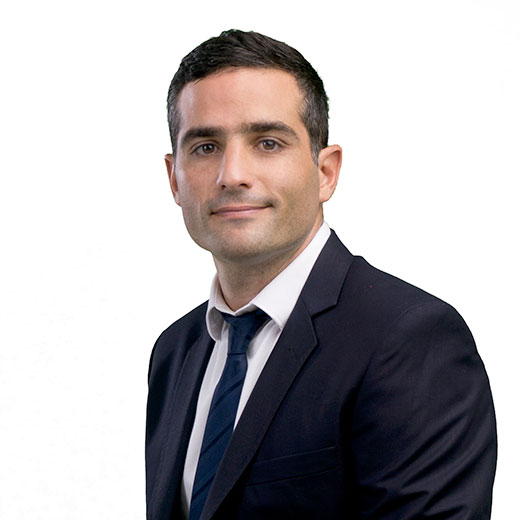
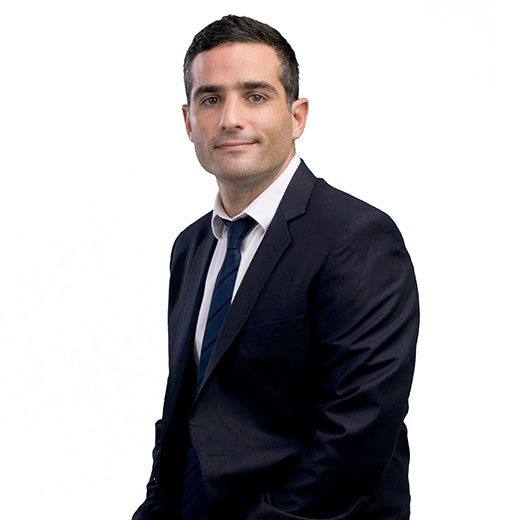
Cambios realizados.

diff --git a/index.html b/index.html
@@ -43,7 +43,7 @@
 			<li><a href="#anchor-consulta" class="smooth waves-button waves-effect">1ra Consulta</a></li><li>
 				<a href="#anchor-estetica" class="smooth-offset waves-button waves-effect">Estética</a></li><li>
 				<a href="#anchor-reparadora" class="smooth-offset waves-button waves-effect">Reparadora</a></li><li>
-				<a href="#anchor-testimonios" class="smooth-offset waves-button waves-effect">Testimonios</a></li><li>
+				<!--<a href="#anchor-testimonios" class="smooth-offset waves-button waves-effect">Testimonios</a></li><li>-->
 				<a href="#anchor-chouhy" class="smooth-offset waves-button waves-effect">Dr. Chouhy</a></li><li>
 				<a href="#anchor-contacto" class="smooth-offset waves-button waves-effect">Contacto</a></li>
 		</ul>
@@ -53,7 +53,12 @@
 		<div class="intro-item item-1">
 			<div class="intro-item-content">
 				<div class="container">
-					<p class="intro-text">Porque no existen dos personas idénticas... <strong>realizá una consulta 100% personalizada para vos.</strong></p>
+					<p class="intro-text">
+						No existen dos personas iguales...<br>
+						Sus tejidos no son iguales...<br>
+						El resultado no es el mismo...<br>
+						<strong>¿Por qué es importante hacer una consulta?</strong>
+					</p>
 					<a href="#anchor-consulta" class="btn btn-main waves-effect waves-button waves-float smooth">Primera Consulta</a>
 				</div>
 			</div>
@@ -73,8 +78,9 @@
 				<p>En la actualidad se puede obtener facilmente información con respecto a procedimientos quirurgicos o inclusive acceder a fotografias que reflejan resultados. Pero las imágenes son engañosas incluso ante cirujanos muy experimentados. Cada paciente disfruta mirando las imagenes antes y después "yo quiero saber lo que voy a parecer", eso es parte de la naturaleza humana. No tengo ningún problema con los pacientes que buscan de las imágenes lo que desean, pero nunca voy a tomar decisiones en base a imagenes. Cuando el paciente y el cirujano ven una imagen, cada uno forma una opinión diferente y por lo tanto subjetiva. Para ofrecer el más alto nivel en resultados con el minimo de riesgos debemos utilizar métodos científicos basados en mediciones objetivas precisas, pero lo mas importante... <strong>individuales</strong> para cada paciente.</p>
 			</div>
 			<div class="slider consulta-slider">
-				<div class="consulta-slider-img img-1"></div>
 				<div class="consulta-slider-img img-2"></div>
+				<div class="consulta-slider-img img-3"></div>
+				<div class="consulta-slider-img img-1"></div>
 			</div>
 		</div>
 		<div class="consulta-more">
@@ -255,7 +261,7 @@
 		</div>
 	</section>
 
-	<section class="testimonios" id="anchor-testimonios">
+	<!-- <section class="testimonios" id="anchor-testimonios">
 		<div class="container">
 			<h2 class="main-title">
 				<span class="main">Testimonios</span>
@@ -307,7 +313,7 @@
 				</div>
 			</div>
 		</div>
-	</section>
+	</section> -->
 
 	<div class="chouhy" id="anchor-chouhy">
 		<div class="about-main">

diff --git a/css/blueprints.css b/css/blueprints.css
@@ -2370,7 +2370,7 @@ nav {
 .nav-mobile {
   padding: 0; }
   .nav-mobile .nav-items {
-    max-height: 300px;
+    max-height: 250px;
     background-clip: padding-box;
     overflow: hidden;
     clear: both;
@@ -2452,7 +2452,8 @@ section.intro {
       section.intro .intro-item {
         height: auto;
         background: url(../img/mobile-bg.jpg) no-repeat 50% 50% !important;
-        background-size: cover; } }
+        background-size: cover;
+        text-align: center; } }
     section.intro .intro-item .intro-item-content {
       width: 100%;
       position: absolute;
@@ -2477,8 +2478,8 @@ section.intro {
         section.intro .intro-item .intro-eugenio {
           display: none; } }
   section.intro .intro-text {
-    max-width: 560px;
-    font-size: 2.2em;
+    max-width: 690px;
+    font-size: 2.1em;
     letter-spacing: -0.02em;
     color: white;
     text-shadow: 0px 0px 45px rgba(0, 0, 0, 0.95); }
@@ -2486,10 +2487,16 @@ section.intro {
       font-weight: 600; }
     @media only screen and (max-width: 640px) {
       section.intro .intro-text {
-        font-size: 1.8em; } }
-    @media only screen and (max-width: 340px) {
+        font-size: 1.6em;
+        text-align: center; }
+        section.intro .intro-text br {
+          display: none; } }
+    @media only screen and (max-width: 500px) {
       section.intro .intro-text {
-        font-size: 1.6em; } }
+        font-size: 1.4em; } }
+    @media only screen and (max-width: 400px) {
+      section.intro .intro-text {
+        font-size: 1.3em; } }
 
 .intro-clear {
   width: 100%;
@@ -2527,6 +2534,8 @@ section.intro {
         background-image: url(../img/consulta-1.jpg); }
       .consulta-main .slider .consulta-slider-img.img-2 {
         background-image: url(../img/consulta-2.jpg); }
+      .consulta-main .slider .consulta-slider-img.img-3 {
+        background-image: url(../img/consulta-3.jpg); }
     .consulta-main .slider .slick-track, .consulta-main .slider .slick-list {
       height: 100%; }
   @media only screen and (max-width: 1500px) {
@@ -2572,15 +2581,15 @@ section.intro {
   .cirugia-part h2 {
     text-align: center;
     padding-bottom: 20px; }
-  .cirugia-part.estetica {
+  .cirugia-part.reparadora {
     background: #eaeaea url(../img/estetica-bg.jpg) no-repeat 50% 50%;
     background-size: cover; }
-  .cirugia-part.reparadora {
+  .cirugia-part.estetica {
     background: #187fdf url(../img/reparadora-bg.jpg) no-repeat 50% 50%;
     background-size: cover; }
-    .cirugia-part.reparadora h2 {
+    .cirugia-part.estetica h2 {
       color: white; }
-    .cirugia-part.reparadora .slick-prev, .cirugia-part.reparadora .slick-next {
+    .cirugia-part.estetica .slick-prev, .cirugia-part.estetica .slick-next {
       color: white; }
   .cirugia-part .cirugia-carousel {
     padding: 0 30px; }

diff --git a/css/blueprints.scss b/css/blueprints.scss
@@ -353,7 +353,7 @@ nav {
 
 	.nav-items {
 		//display: none;
-		max-height: 300px;
+		max-height: 250px;
 		background-clip: padding-box;
 		overflow: hidden;
 		clear: both;
@@ -465,6 +465,7 @@ section.intro {
 			height: auto;
 			background: url(../img/mobile-bg.jpg) no-repeat 50% 50% !important;
 			background-size: cover;
+			text-align: center;
 		}
 
 		.intro-item-content {
@@ -498,8 +499,8 @@ section.intro {
 	}
 
 	.intro-text {
-		max-width: 560px;
-		font-size: 2.2em;
+		max-width: 690px;
+		font-size: 2.1em;
 		letter-spacing: -0.02em;
 		color: white;
 		text-shadow: 0px 0px 45px rgba(0,0,0,0.95);
@@ -509,11 +510,20 @@ section.intro {
 		}
 
 		@media only screen and (max-width : 640px) {
-			font-size: 1.8em;
+			font-size: 1.6em;
+			text-align: center;
+
+			br {
+				display: none;
+			}
 		}
 
-		@media only screen and (max-width : 340px) {
-			font-size: 1.6em;
+		@media only screen and (max-width : 500px) {
+			font-size: 1.4em;
+		}
+
+		@media only screen and (max-width : 400px) {
+			font-size: 1.3em;
 		}
 	}
 }
@@ -570,6 +580,9 @@ section.intro {
 			}
 			&.img-2 {
 				background-image: url(../img/consulta-2.jpg);
+			}
+			&.img-3 {
+				background-image: url(../img/consulta-3.jpg);
 			}
 		}
 
@@ -650,12 +663,12 @@ section.intro {
 		padding-bottom: 20px;
 	}
 
-	&.estetica {
+	&.reparadora {
 		background: #eaeaea url(../img/estetica-bg.jpg) no-repeat 50% 50%;
 		background-size: cover; 
 	}
 
-	&.reparadora {
+	&.estetica {
 		background: $blue url(../img/reparadora-bg.jpg) no-repeat 50% 50%;
 		background-size: cover;
 
